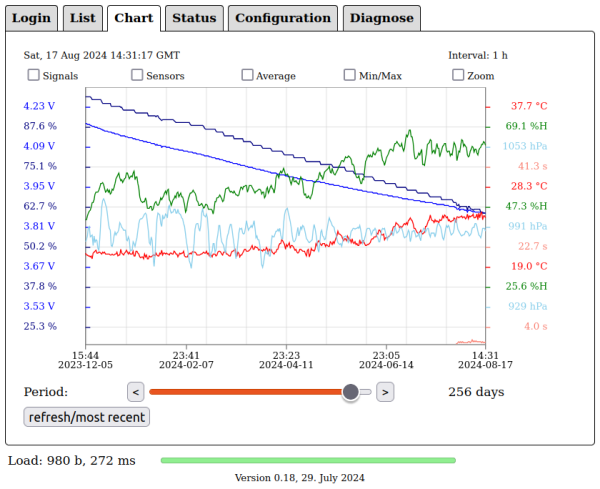
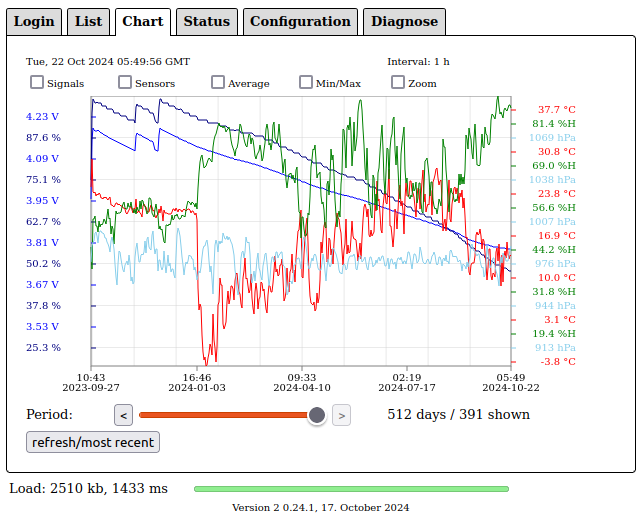
Fix uptime limited to 256 days.
The first devices reached 256 days and reported 0 days caused by an
uint8_t overflow.

Changed region(s): [[0.0, 0.0, 1.0, 1.0]]

diff --git a/src/coap_appl_client.c b/src/coap_appl_client.c
@@ -291,7 +291,7 @@ int coap_appl_client_prepare_modem_info(char *buf, size_t len, int flags)
          } else {
             uint8_t hours = uptime % 24;
             uptime = uptime / 24;
-            index = snprintf(buf, len, "%u-%02u:%02u:%02u [d-hh:mm:ss]", (uint8_t)uptime, hours, mins, secs);
+            index = snprintf(buf, len, "%u-%02u:%02u:%02u [d-hh:mm:ss]", (uint32_t)uptime, hours, mins, secs);
          }
       }
    }

diff --git a/README.md b/README.md
@@ -21,16 +21,18 @@ In combination with cellular LTE-M/NB-IoT technolopy, CoAP / DTLS 1.2 CID enable
 
 The demo client itself is in development stage. In "good and normal weather", the `Thingy:91` runs from battery for 7-15 months, exchanging every hour a message. In "storm" it may require to be switched off and on again in very rare exceptions.
 
+**The first device reached 256 days update and uncovered a bug displaying an uptime larger than 256 days! Demonstrates both, reliability and efficiency.**
+
 ![Thingy:91 Chart](./docu/thingy91-chart.png)
 
 ```
-179-22:26:04 [d-hh:mm:ss], Thingy:91 v0.9.0+0, 0*4499, 1*48, 2*0, 3*0, failures 4
-!3873 mV 63% (358 days left) battery
-!CE: down: 8, up: 1, RSRP: -95 dBm, CINR: 12 dB, SNR: 13 dB
+1-09:24:01 [d-hh:mm:ss], Thingy:91 v0.9.0+0, 0*6146, 1*29, 2*2, 3*0, failures 4
+!3789 mV 48% (241 days left) battery
+!CE: down: 8, up: 1, RSRP: -95 dBm, CINR: 10 dB, SNR: 11 dB
 ```
 
-- 180 days, about 4500 messages, some retransmissions, 1%% failures.
-- 63% battery left
+- 257 days, about 6150 messages, some retransmissions, 1%% failures.
+- 48% battery left
 - quite good signal conditions.
 
 The demo client is intended as groundwork for your own ideas. "Out-of-the-box" this application is useful to easily check, if cellular IoT works at the locations and environment you want to use it. The demo reports also some details about the cellular network functions. 
